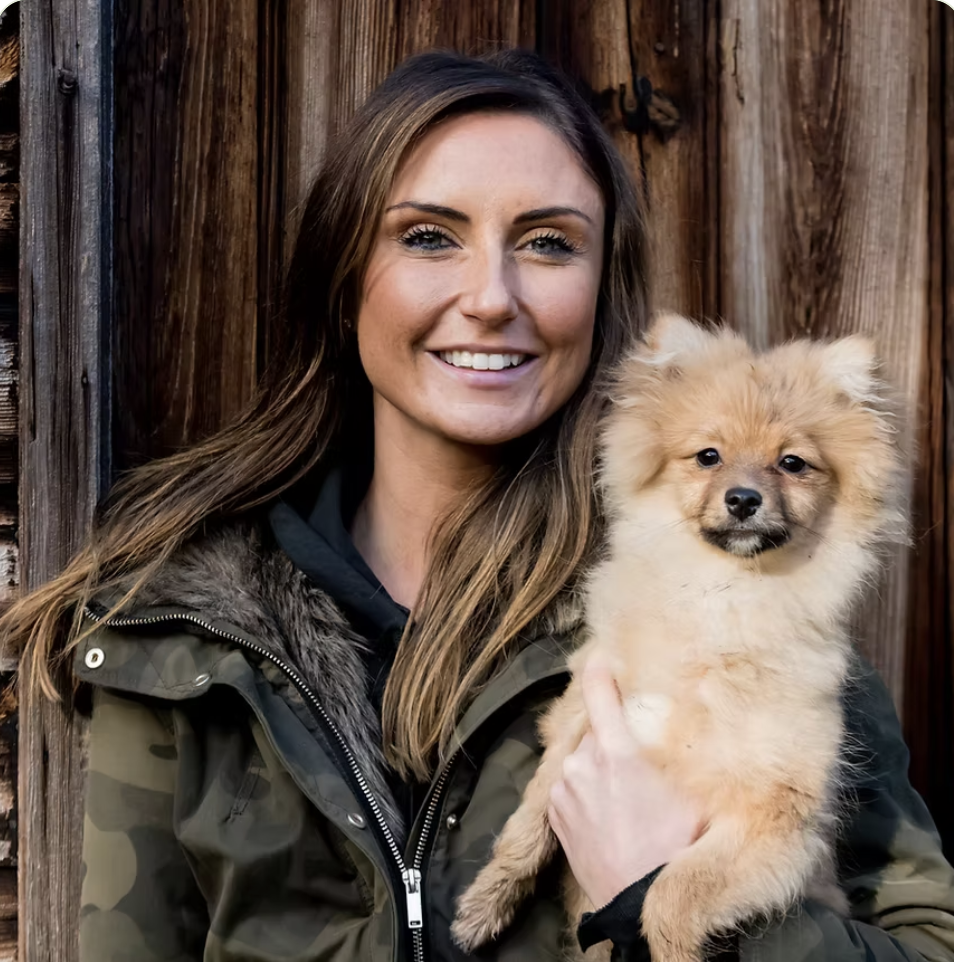
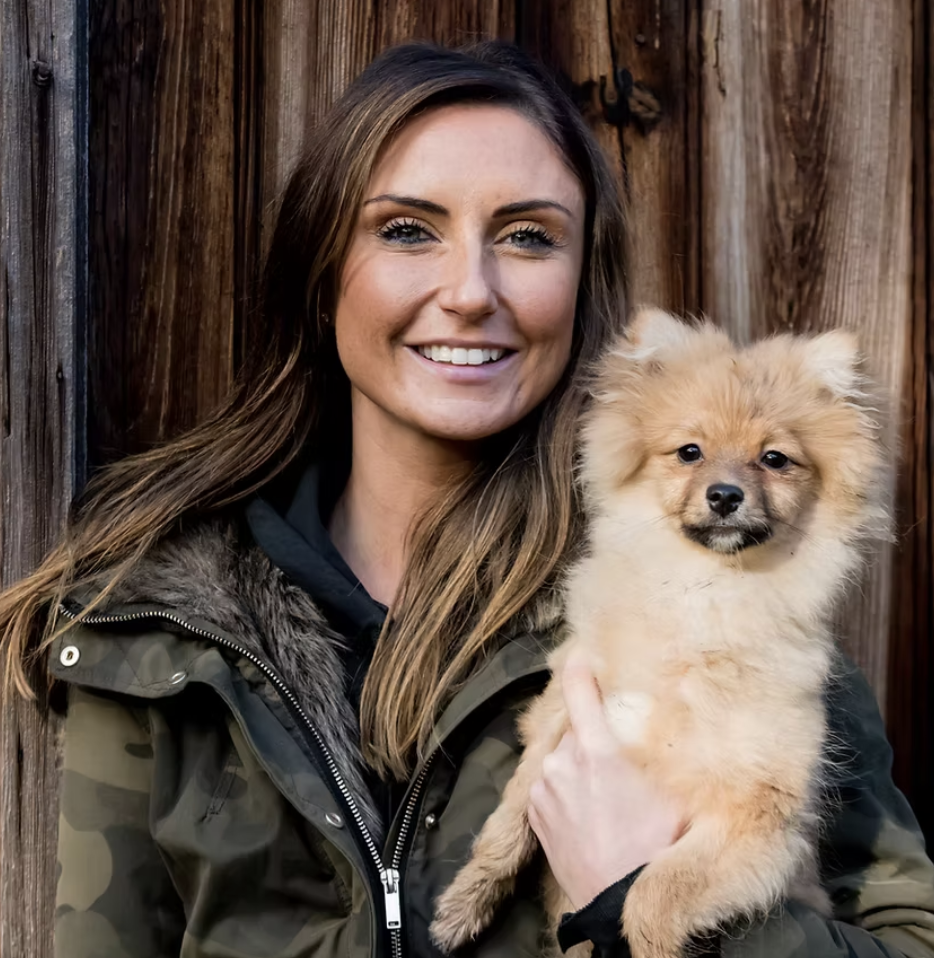
Add Jess team card to Our Story page
Second team card below Becks, photo on the right (mirrored layout).
Uses the updated jess.png already in the repo.
Duncan laptop photo pending — will swap Today timeline image when provided.

diff --git a/app/(site)/our-story/page.tsx b/app/(site)/our-story/page.tsx
@@ -307,6 +307,7 @@ export default async function OurStoryPage() {
             <h2 className="mt-2">It takes a team who actually cares.</h2>
           </div>
 
+          {/* Becks */}
           <div className="rev d1 grid gap-10 overflow-hidden rounded-3xl border border-cream-dark bg-cream shadow-[0_24px_60px_rgba(0,62,69,0.08)] md:grid-cols-[2fr_3fr]">
             <div className="relative aspect-[4/5] md:aspect-auto">
               <Image
@@ -346,6 +347,49 @@ export default async function OurStoryPage() {
                   day one.
                 </p>
               </div>
+            </div>
+          </div>
+
+          {/* Jess — photo on the right on desktop */}
+          <div className="rev d2 mt-8 grid gap-10 overflow-hidden rounded-3xl border border-cream-dark bg-cream shadow-[0_24px_60px_rgba(0,62,69,0.08)] md:grid-cols-[3fr_2fr]">
+            <div className="p-8 md:p-12 md:order-1">
+              <p className="eyebrow">Meet the team</p>
+              <h3 className="mt-2 font-poppins text-3xl font-extrabold text-forest">
+                Jess
+              </h3>
+              <p className="mt-1 font-medium text-gold">
+                Co-Founder &amp; Director
+              </p>
+              <div className="mt-5 flex flex-col gap-3 text-ink-soft">
+                <p>
+                  Jess co-founded Duncan&apos;s Dog Co alongside Duncan in 2011,
+                  building it from a dog walking round in South West London into
+                  one of the UK&apos;s longest-standing five-star licensed
+                  daycares.
+                </p>
+                <p>
+                  She has run every part of the business — from the early
+                  morning runs and client relationships to managing a full team
+                  and navigating the day-to-day realities of running a licensed
+                  facility. Every problem Genera solves is one she has lived
+                  first hand.
+                </p>
+                <p>
+                  As co-founder of Genera, Jess brings that same care and
+                  attention to detail to every part of how the product is built
+                  and how customers are supported.
+                </p>
+              </div>
+            </div>
+            <div className="relative aspect-[4/5] md:aspect-auto md:order-2">
+              <Image
+                src="/images/jess.png"
+                alt="Jess, Co-Founder of Genera Software"
+                fill
+                sizes="(max-width: 768px) 100vw, 400px"
+                className="object-cover object-top"
+                loading="lazy"
+              />
             </div>
           </div>
         </div>